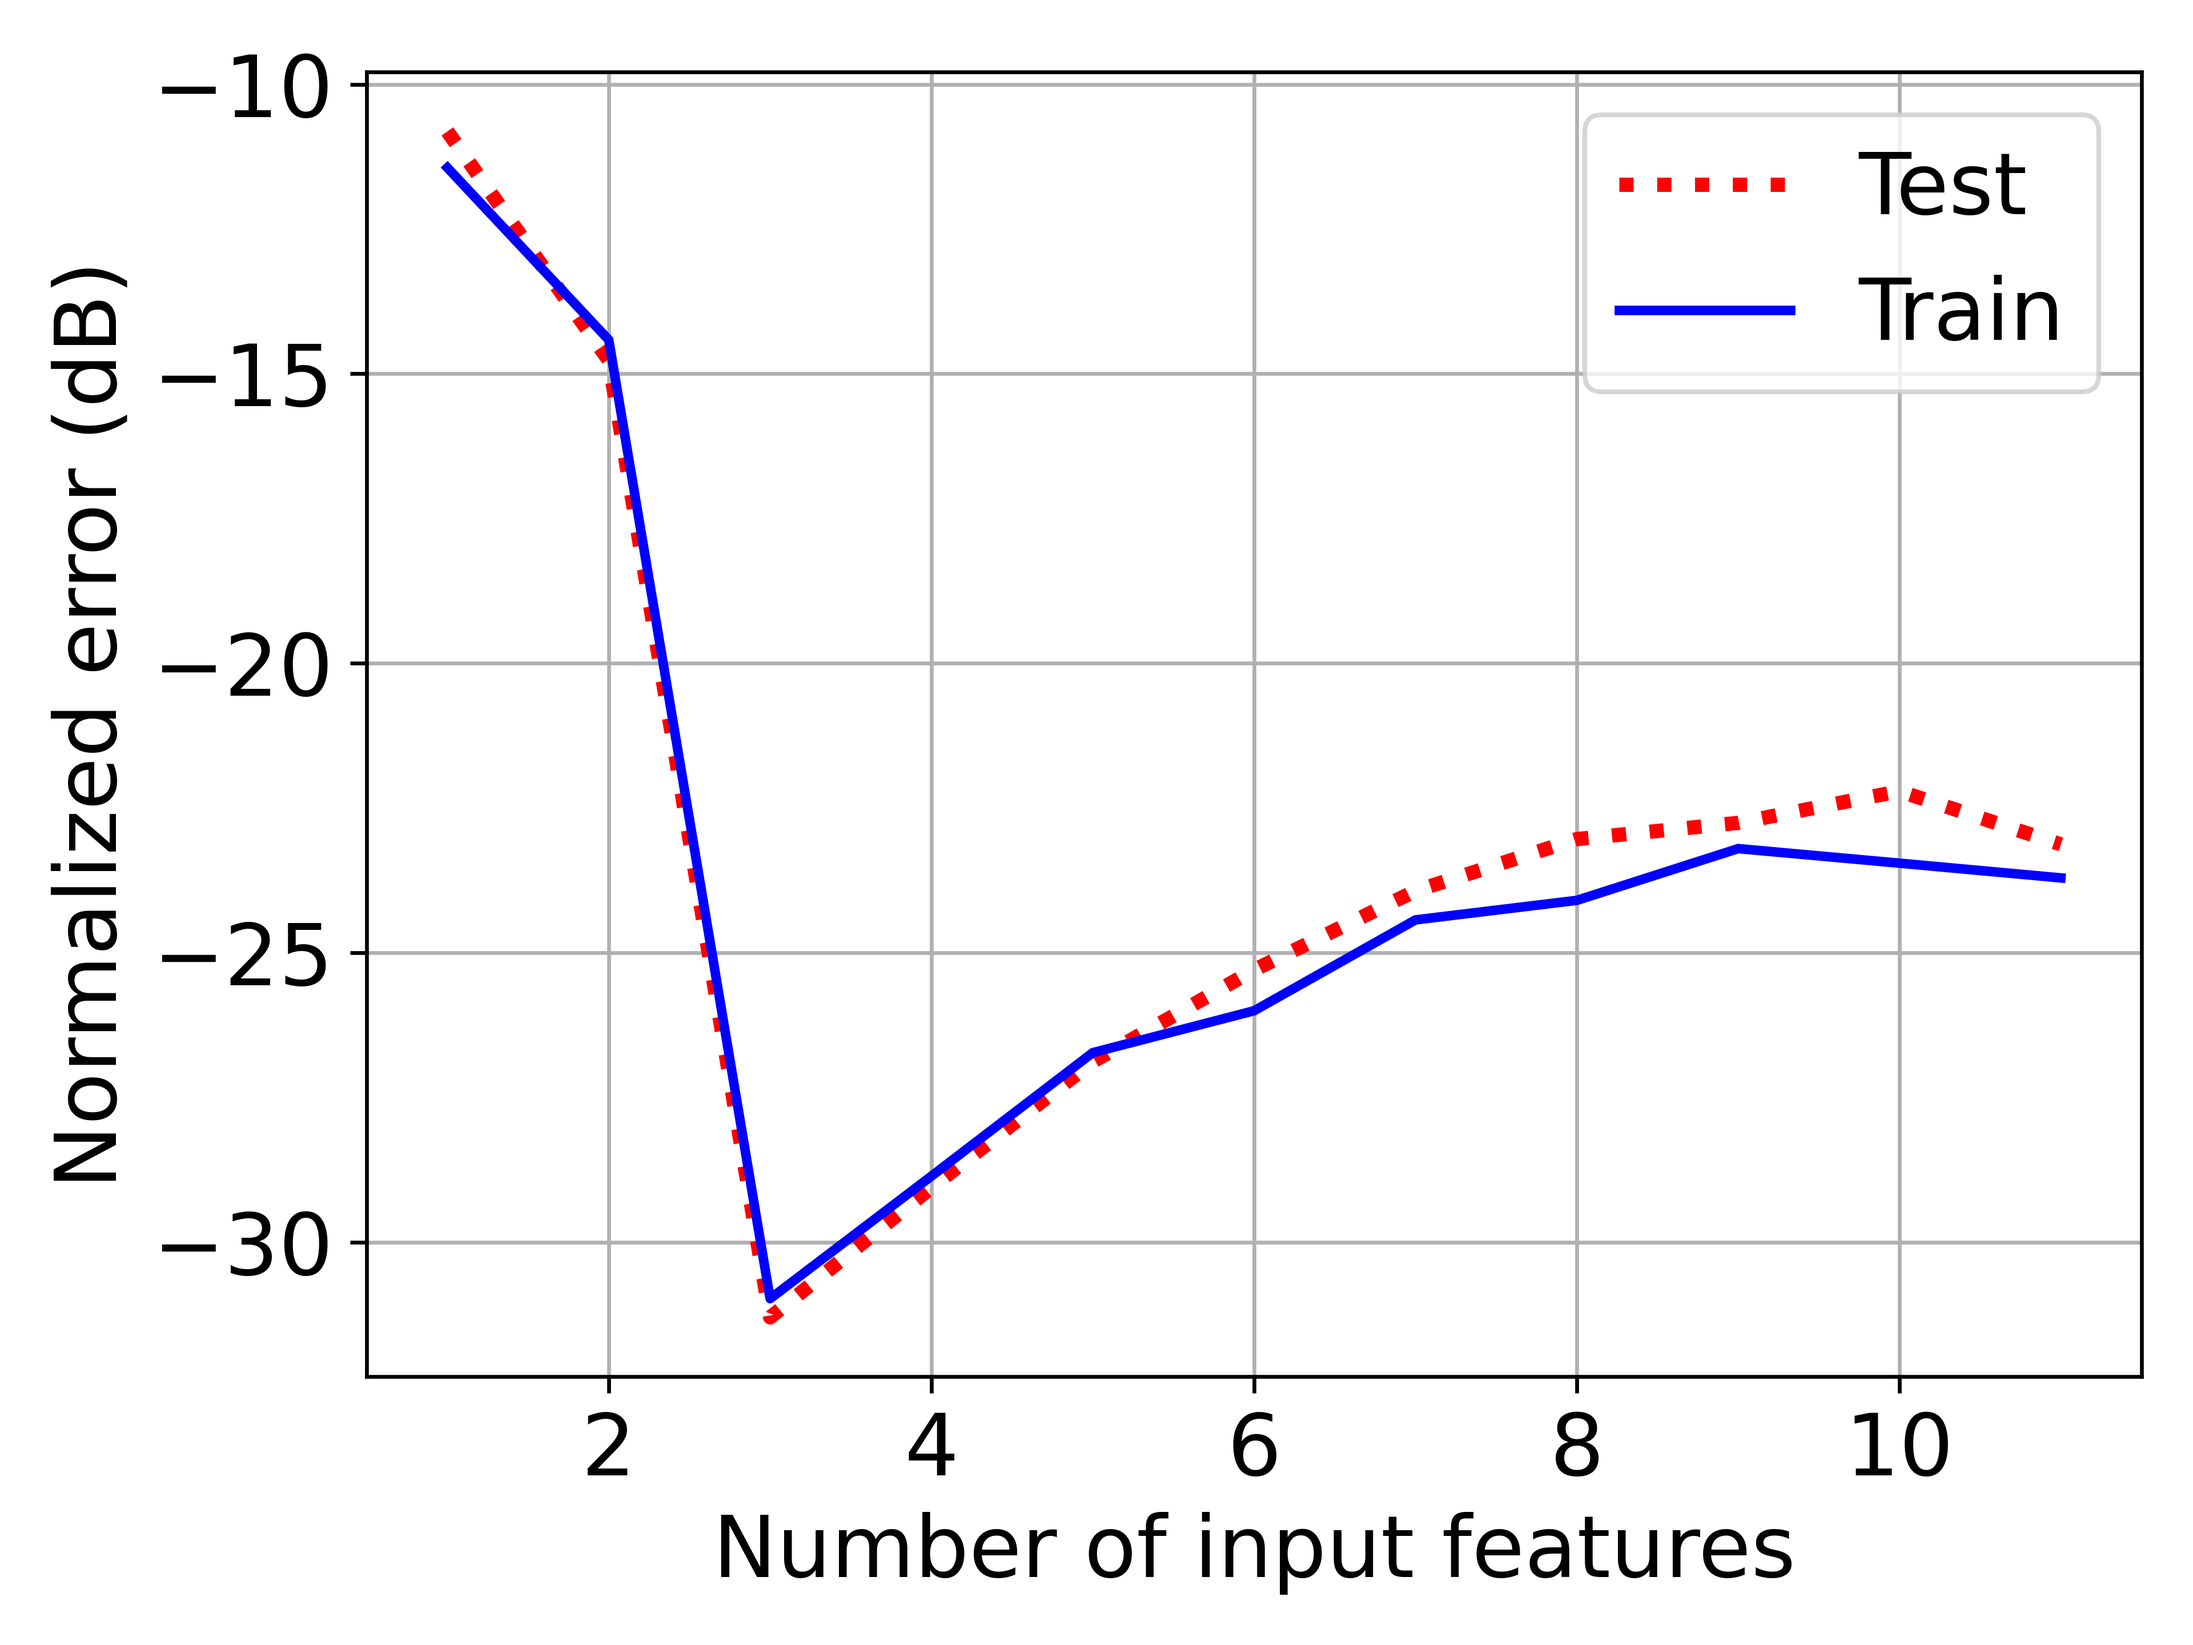
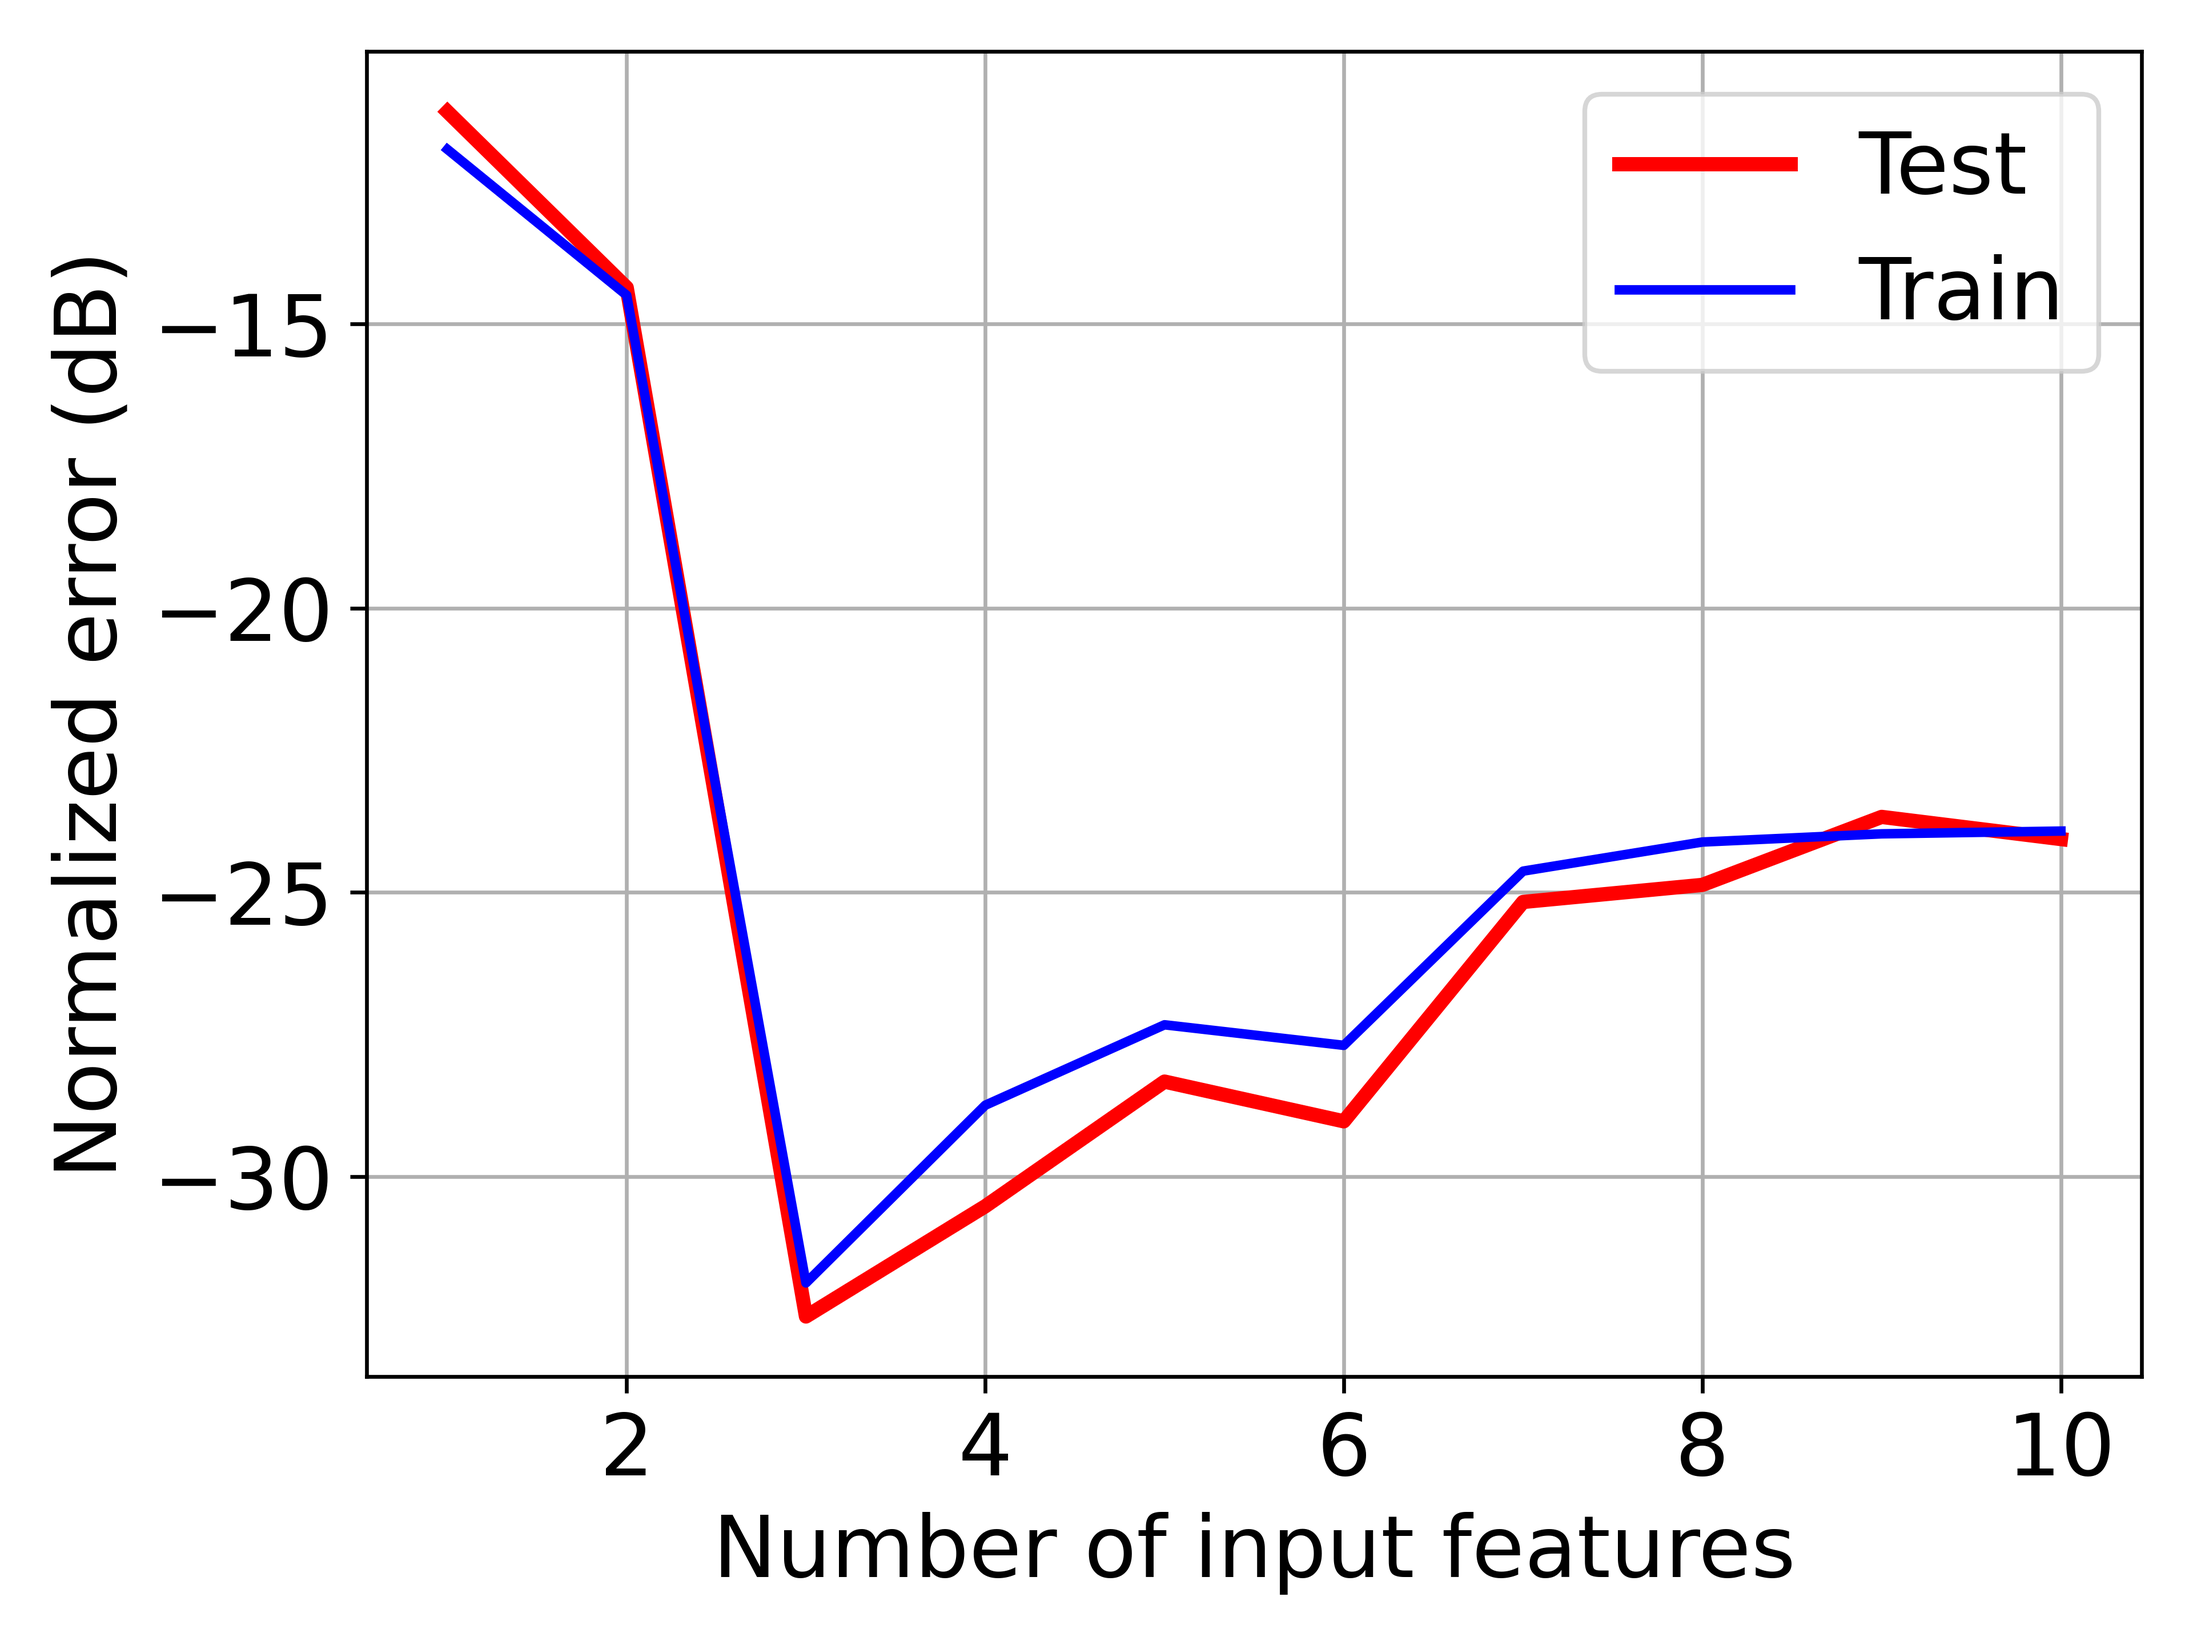
minor

diff --git a/main.py b/main.py
@@ -10,14 +10,14 @@ from joblib import Parallel, delayed
 
 def define_parser():
     parser = argparse.ArgumentParser(description="Run progressive learning")
-    parser.add_argument("--data", default="MNIST", help="Input dataset available as the paper shows")
+    parser.add_argument("--data", default="Gravitation", help="Input dataset available as the paper shows")
     parser.add_argument("--lam", type=float, default=10**(2), help="Reguralized parameters on the least-square problem")
     parser.add_argument("--mu", type=float, default=10**(3), help="Parameter for ADMM")
     parser.add_argument("--kMax", type=int, default=100, help="Iteration number of ADMM")
     parser.add_argument("--NodeNum", type=int, default=100, help="Max number of random nodes on each layer")
-    parser.add_argument("--LayerNum", type=int, default=1, help="Parameter for ADMM")
-    parser.add_argument("--J", type=int, default=1000, help="Sample Size")
-    parser.add_argument("--Pextra", type=int, default=0, help="Number of extra random features")
+    parser.add_argument("--LayerNum", type=int, default=5, help="Parameter for ADMM")
+    parser.add_argument("--J", type=int, default=50, help="Sample Size")
+    parser.add_argument("--Pextra", type=int, default=7, help="Number of extra random features")
     args = parser.parse_args()
     return args
 
@@ -182,7 +182,13 @@ def Err_vs_feat(args):
         test_acc_sorted = np.append(test_acc_sorted, test_acc_array[i])
         sorted_ind = np.append(sorted_ind, best_ind)
         search_ind = np.delete(search_ind, i)
-        print(str(round(len(sorted_ind)/P * 100,2))+"%")
+        print(sorted_ind)
+        # print(str(round(len(sorted_ind)/P * 100,2))+"%")
+
+    MyFPSR = FPSR([0, 1, 2],sorted_ind[0:3]) 
+    print("FPSR: " + str(MyFPSR))
+    MyFNSR = FNSR([0, 1, 2],sorted_ind[0:3]) 
+    print("FNSR: " + str(MyFNSR))
 
     output_dic = {}
     output_dic["sorted_ind"]=sorted_ind 
@@ -528,11 +534,11 @@ def main():
     SSFN_hparameters = set_hparameters(args)
     
     _logger.info("Construct SSFN")
-    # Err_vs_feat(args)
+    Err_vs_feat(args)
     # acc_vs_J(_logger,args)
     # acc_vs_P(_logger,args)
     # plot_MNIST(_logger,args)
-    my_plot(_logger,args)
+    # my_plot(_logger,args)
 
 if __name__ == '__main__':
     main()
